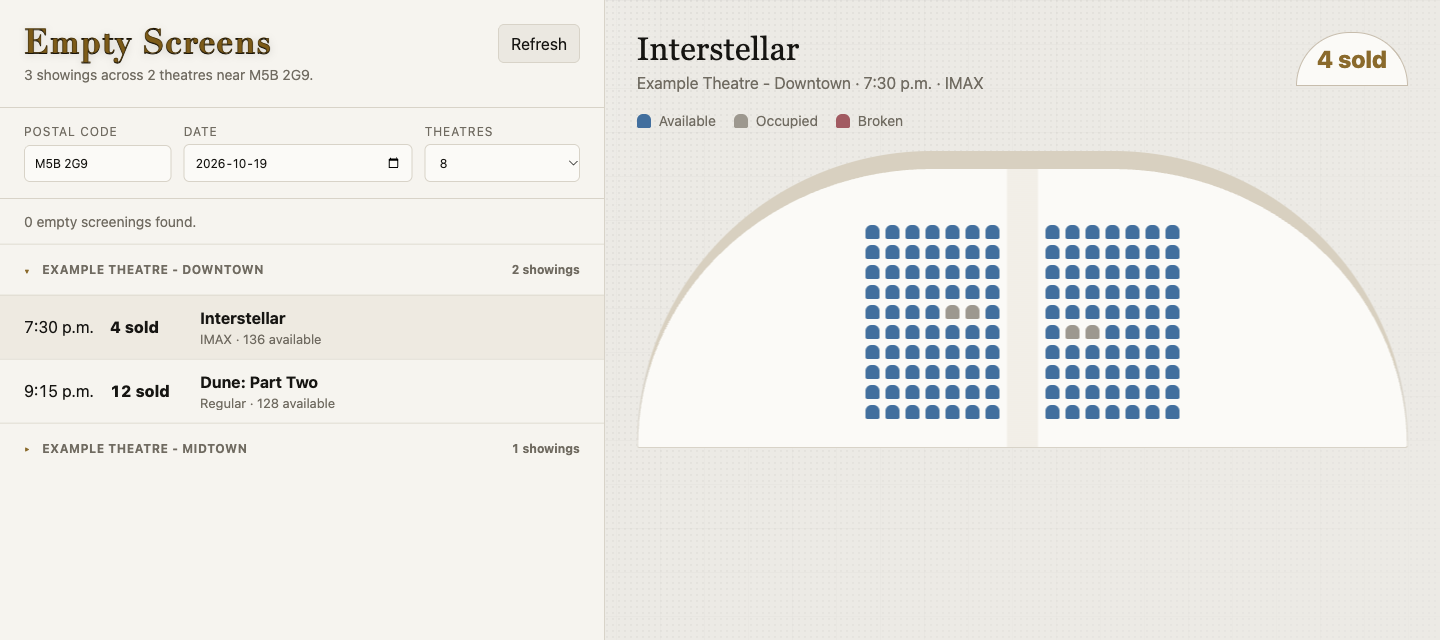
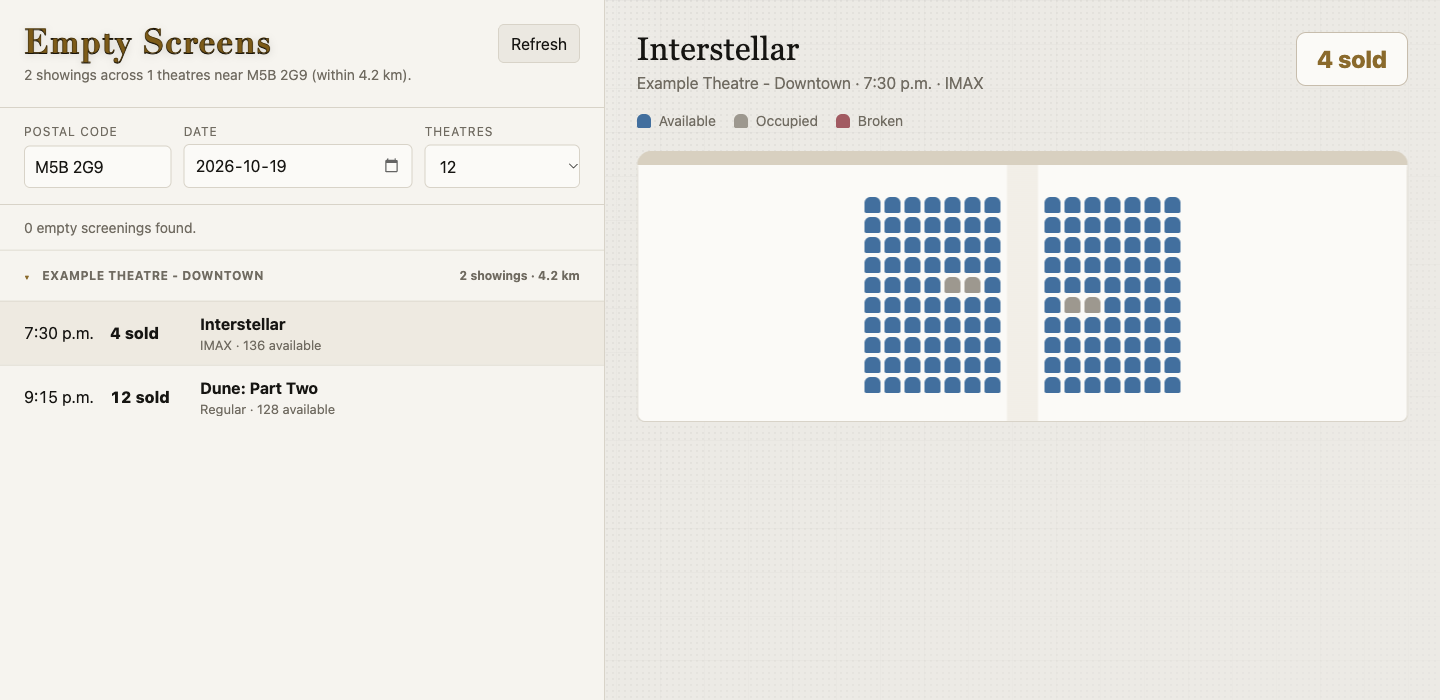
Document streamed theatre results and refresh the current interface preview

diff --git a/README.md b/README.md
@@ -18,7 +18,8 @@ Choosing a movie time usually means opening seat maps one by one. This project b
 
 - Search by Canadian postal code and date.
 - Compare reserved-seating screenings across nearby theatres.
-- Sort screenings by occupied seats, with time as the tie-breaker.
+- Order theatres by distance, then sort each theatre's screenings by occupied seats and time.
+- Stream completed theatre results into the page instead of waiting for every request.
 - Browse showtimes grouped by theatre.
 - Inspect available, occupied, and broken seats on a visual map.
 - Fall back to Toronto when no location is supplied.
@@ -43,7 +44,7 @@ Node.js HTTP server
 Occupied-seat counts -> ranked screenings -> browser seat map
 ```
 
-The server keeps the upstream credential out of the browser. It caches upstream responses and computed results, coalesces identical in-flight requests, and limits seat-count requests to five concurrent workers. Request timeouts, input checks, per-IP throttling, and security headers keep the boundary small and explicit.
+The server keeps the upstream subscription header out of browser requests. It caches upstream responses, coalesces identical in-flight requests, and uses bounded worker pools for theatres and per-theatre seat counts. Results stream as newline-delimited JSON, so the browser can show finished theatres while others are still loading. New searches abort the previous browser request. Request timeouts, input checks, per-IP throttling, and security headers keep the boundary small and explicit.
 
 ## Stack
 
@@ -53,6 +54,7 @@ The server keeps the upstream credential out of the browser. It caches upstream 
 | Server | Node.js built-in HTTP server |
 | State | In-memory caches and request tracking |
 | External data | Cineplex endpoints; postal-code geocoding |
+| Results transport | NDJSON with streamed per-theatre updates |
 | Runtime dependencies | None |
 
 ## Run Locally
@@ -87,9 +89,10 @@ The existing subscription-key fallback is retained for compatibility. Availabili
 | `NODE_ENV` | Set to `production` to hide upstream error details |
 | `DEFAULT_LAT`, `DEFAULT_LNG` | Fallback coordinates |
 | `DEFAULT_THEATRES`, `MAX_THEATRES` | Theatre search bounds |
+| `SHOWTIME_FETCH_CONCURRENCY`, `SEAT_FETCH_CONCURRENCY` | Theatre and per-theatre seat-count worker pools |
 | `API_RATE_LIMIT`, `API_RATE_WINDOW_MS` | Per-IP request limit |
 | `FETCH_TIMEOUT_MS` | Upstream request timeout |
-| `UPSTREAM_CACHE_TTL_MS`, `COMPUTED_CACHE_TTL_MS` | Cache lifetimes |
+| `UPSTREAM_CACHE_TTL_MS` | Upstream response cache lifetime |
 
 See [.env.example](.env.example) for defaults.
 
@@ -98,8 +101,10 @@ See [.env.example](.env.example) for defaults.
 | Endpoint | Description |
 | --- | --- |
 | `GET /healthz` | Lightweight server health check |
-| `GET /api/showings?postalCode=M5B%202G9&date=YYYY-MM-DD&theatres=8` | Ranked screenings and seat counts |
+| `GET /api/showings?postalCode=M5B%202G9&date=YYYY-MM-DD&theatres=12` | Streamed theatre results and ranked seat counts |
 | `GET /api/seatmap?theatreId=...&showtimeId=...` | Layout and availability for one screening |
+
+`/api/showings` returns `application/x-ndjson`: `meta`, `theatre`, `theatreError`, `done`, or `error` events. Clients must handle stream-level errors even after an HTTP 200 response. `/api/seatmap` returns ordinary JSON.
 
 ## Checks
 
